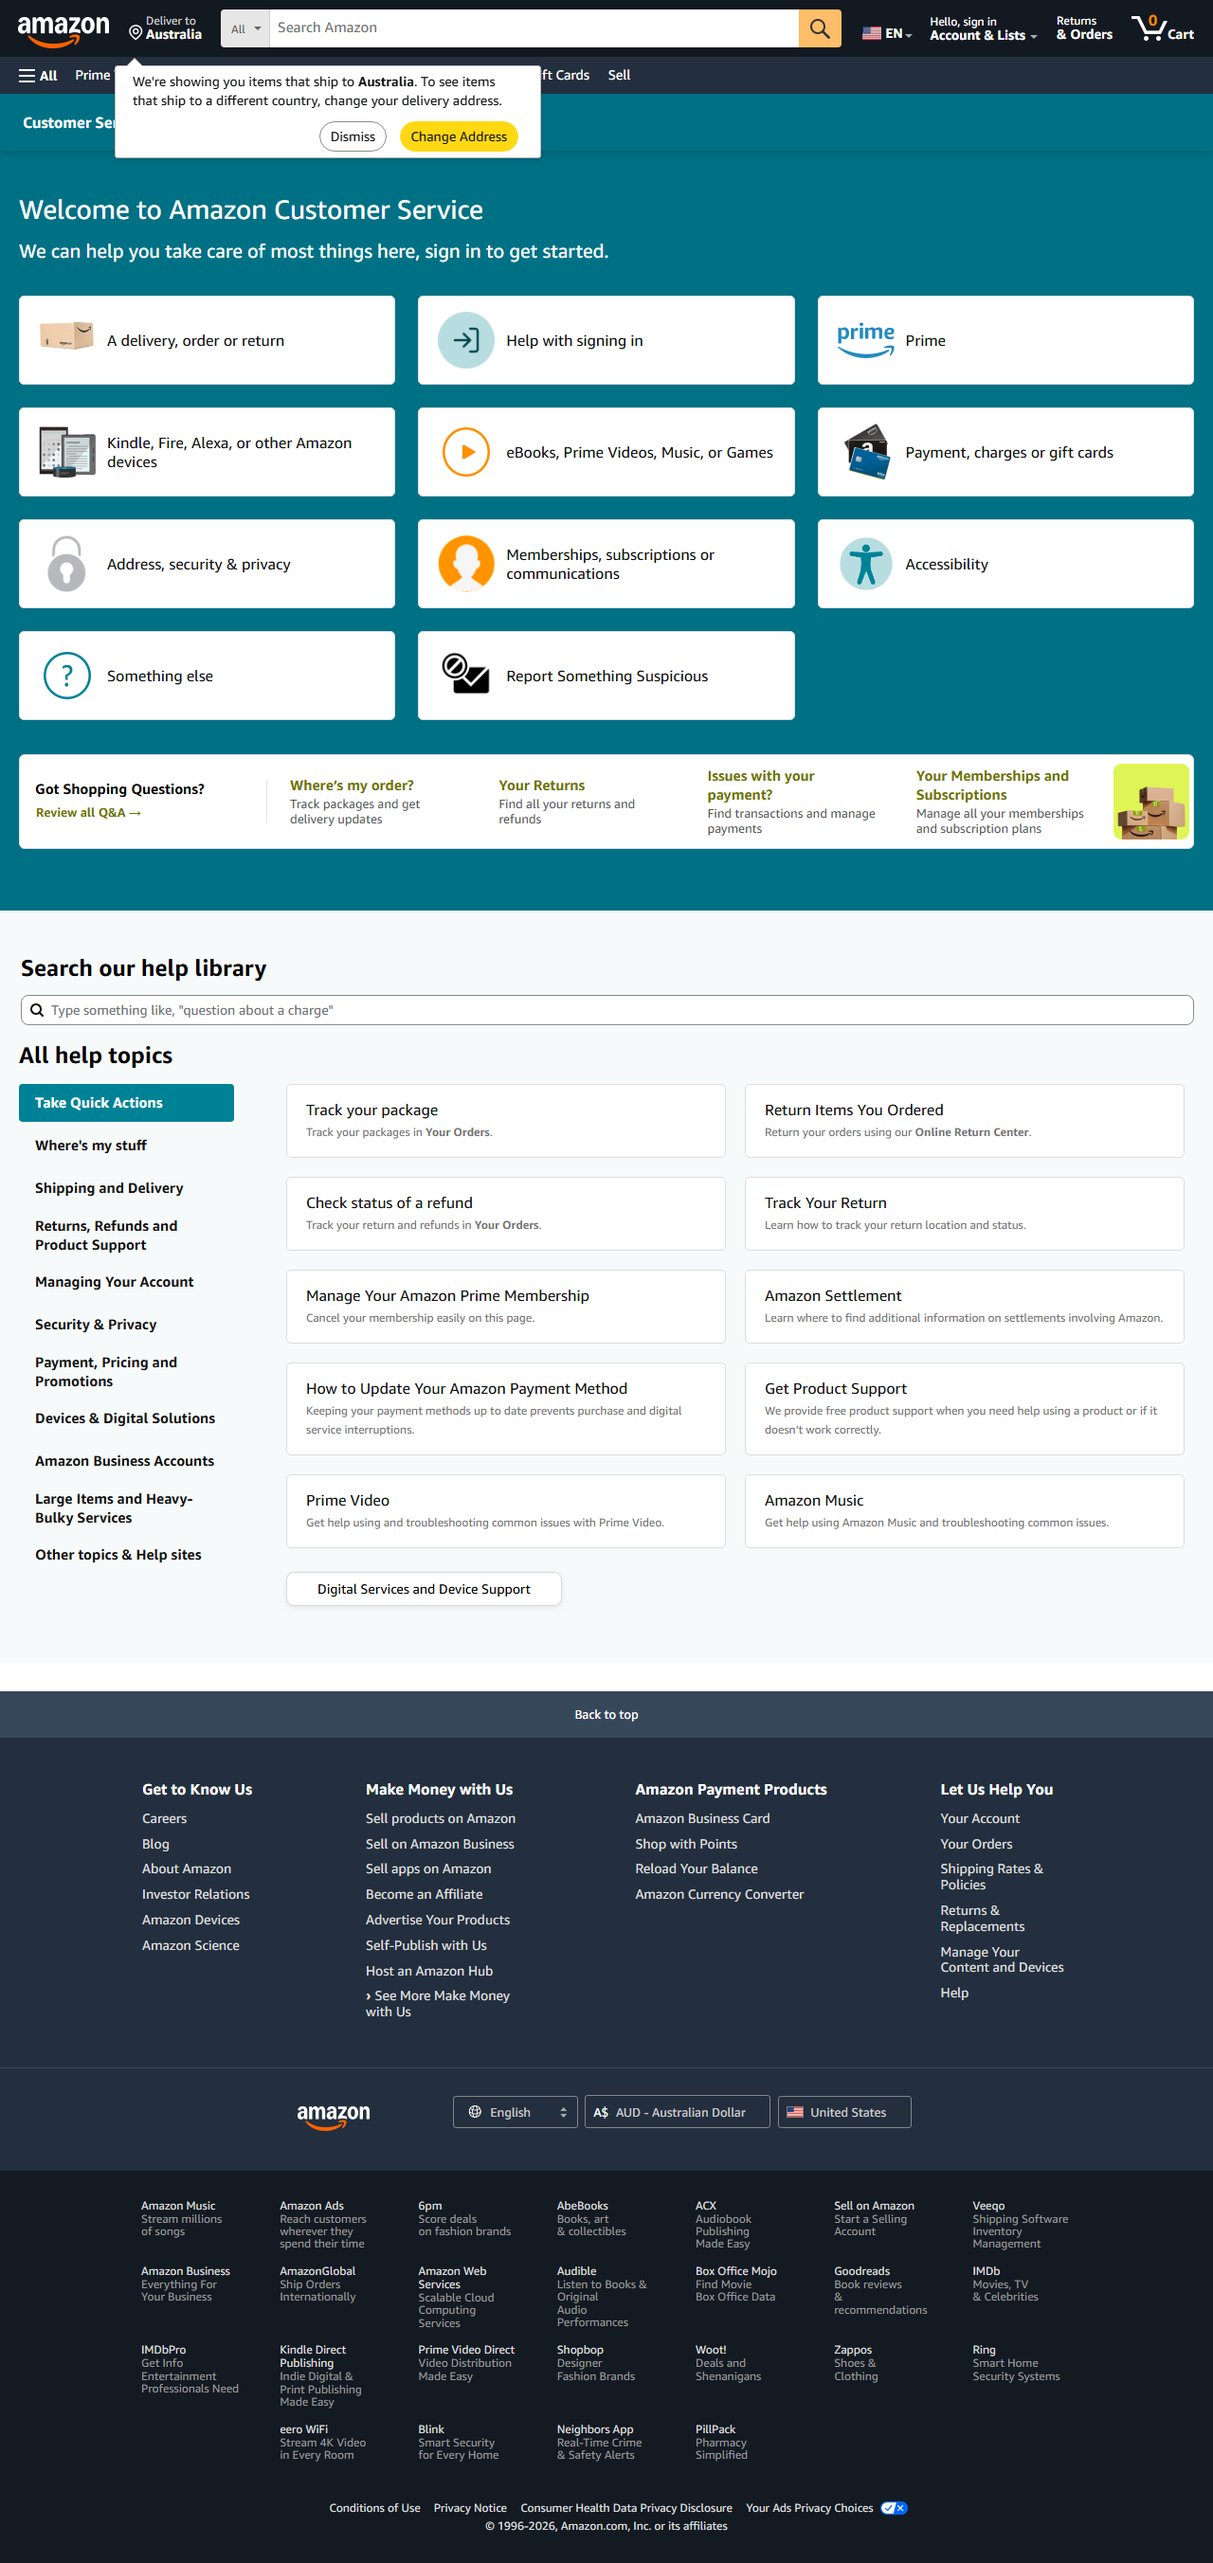
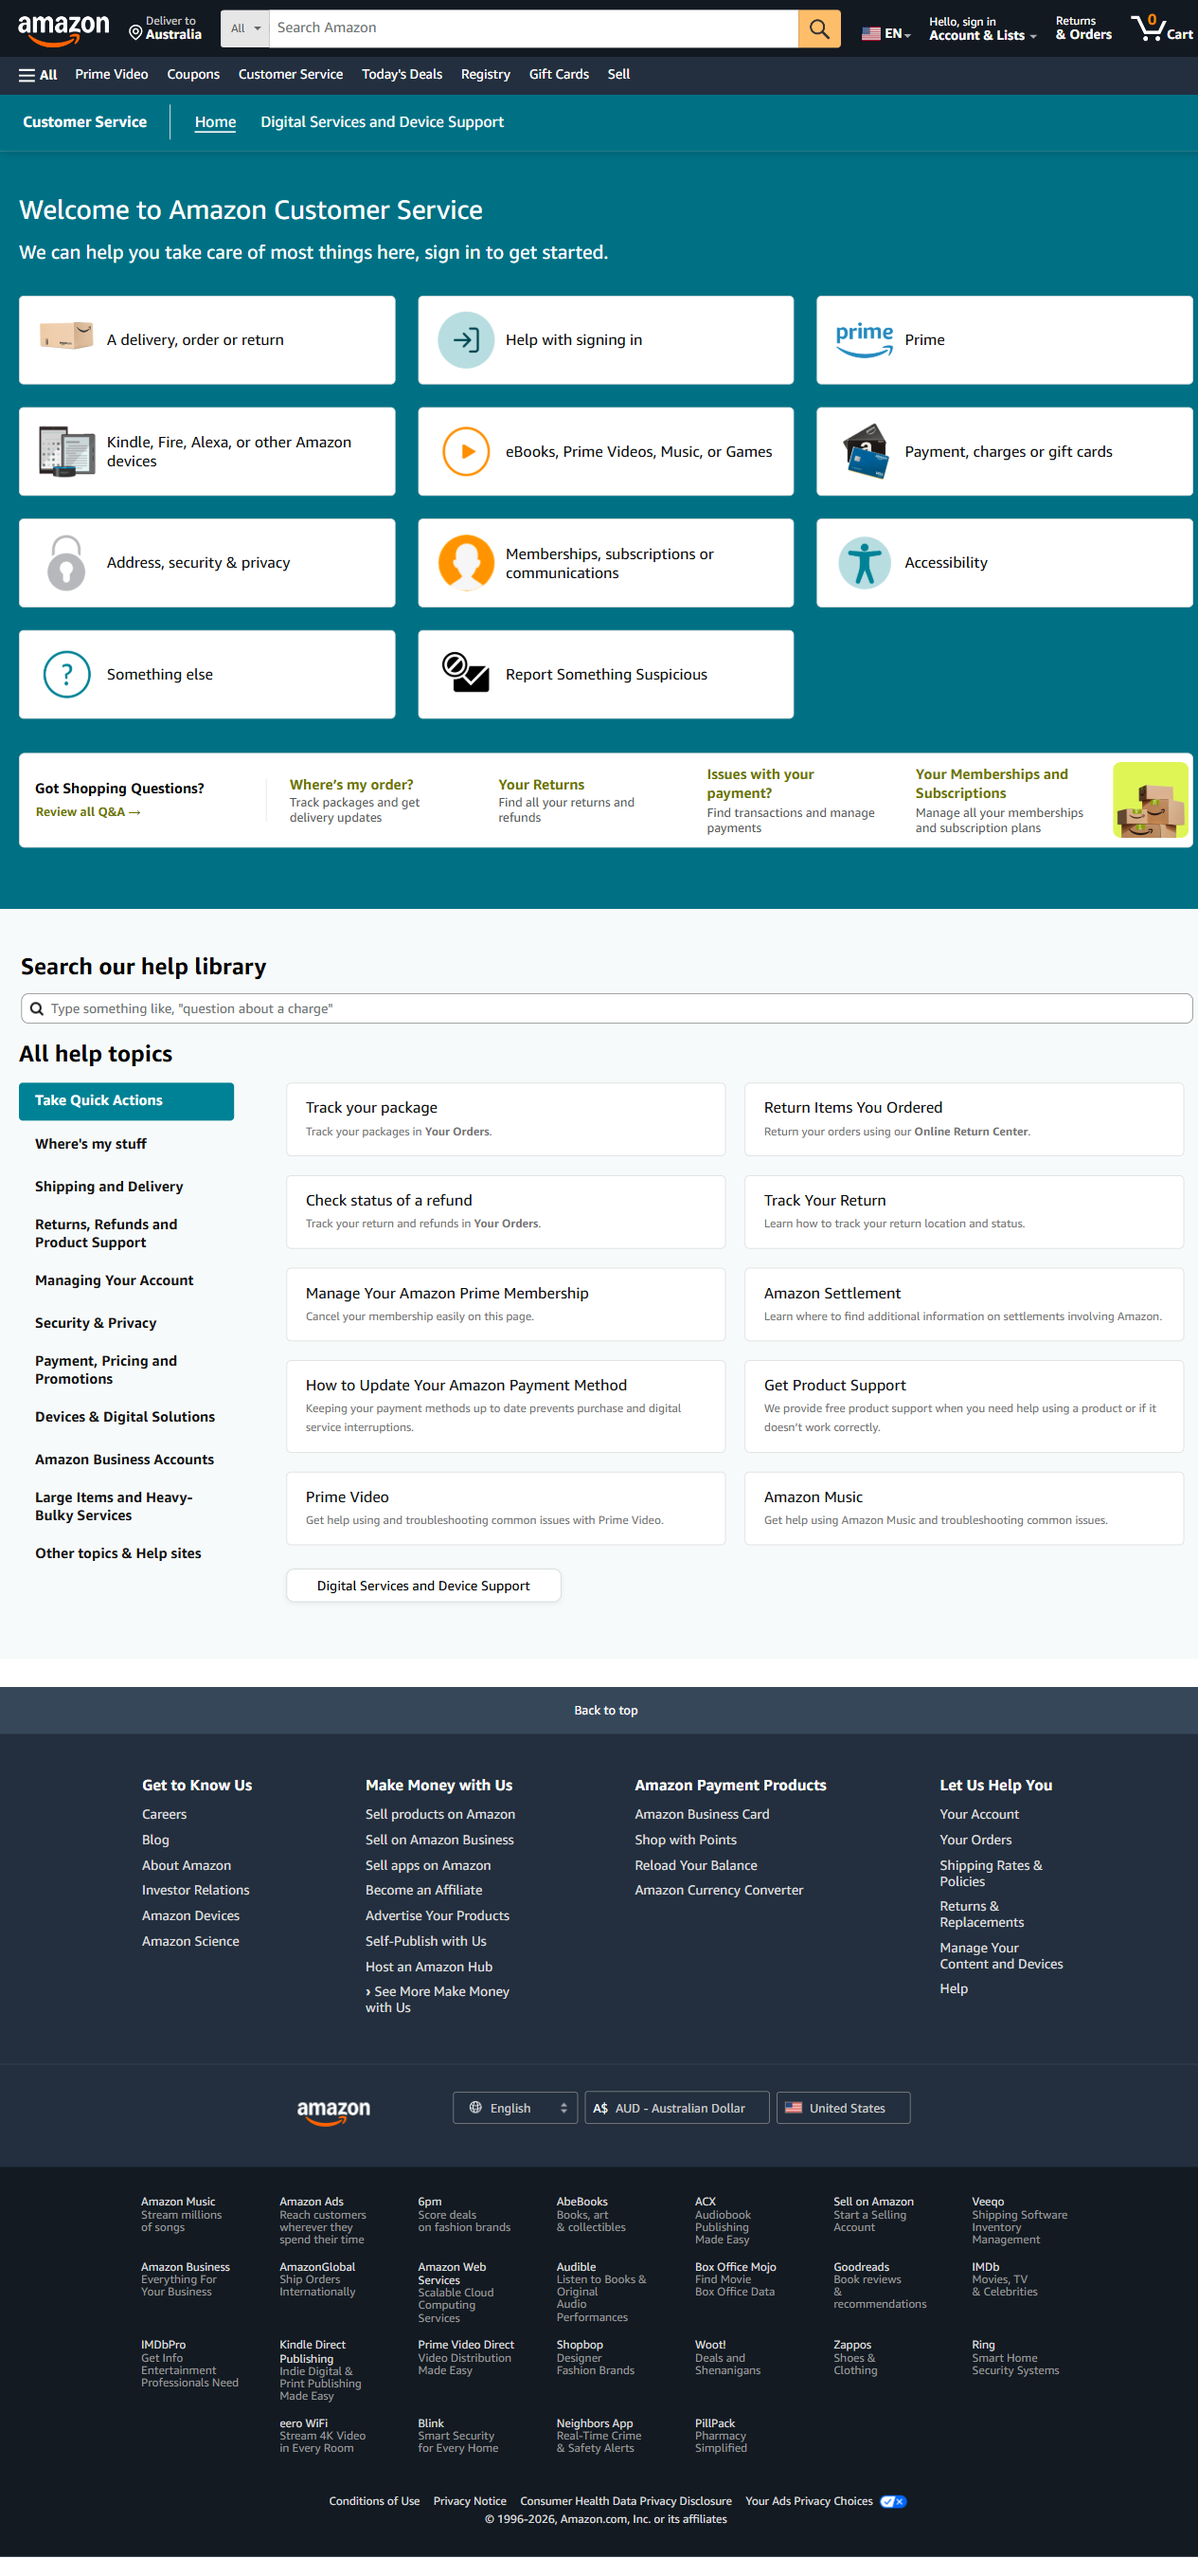
line 24

diff --git a/tests/ui/Amazom.spec.ts b/tests/ui/Amazom.spec.ts
@@ -1,6 +1,6 @@
-const {test, expect} = require("@playwright/test")
+import { test, expect } from "@playwright/test";
 
-test('Verify Amazon homepage navigation and capture screenshot', async ({page})=>
+test('"Verify Amazon homepage navigation and capture screenshot"', async ({page})=>
 {
   //browse URL
    await page.goto("https://www.amazon.com/");
@@ -20,7 +20,7 @@ test('Verify Amazon homepage navigation and capture screenshot', async ({page})=
   await page.screenshot({path: 'screenshots/AmazonHomepage.png',fullPage: true});
   
 
-  //CLick on Prime Video link and verify the page navigation
+  //CLick on Customer service link and verify the page navigation
   page.getByRole('link', { name: 'Customer Service'}).click();
   await page.waitForTimeout(5000);
   //Verify successfull page navigation

diff --git a/playwright.config.js b/playwright.config.js
@@ -12,7 +12,7 @@ module.exports = defineConfig({
   use: {
     baseURL: process.env.SHOPPING_BASE_URL || "https://www.amazon.in",
     browserName: "chromium",
-    headless: true,
+    headless: false,
     actionTimeout: 15_000,
     navigationTimeout: 45_000,
   },
